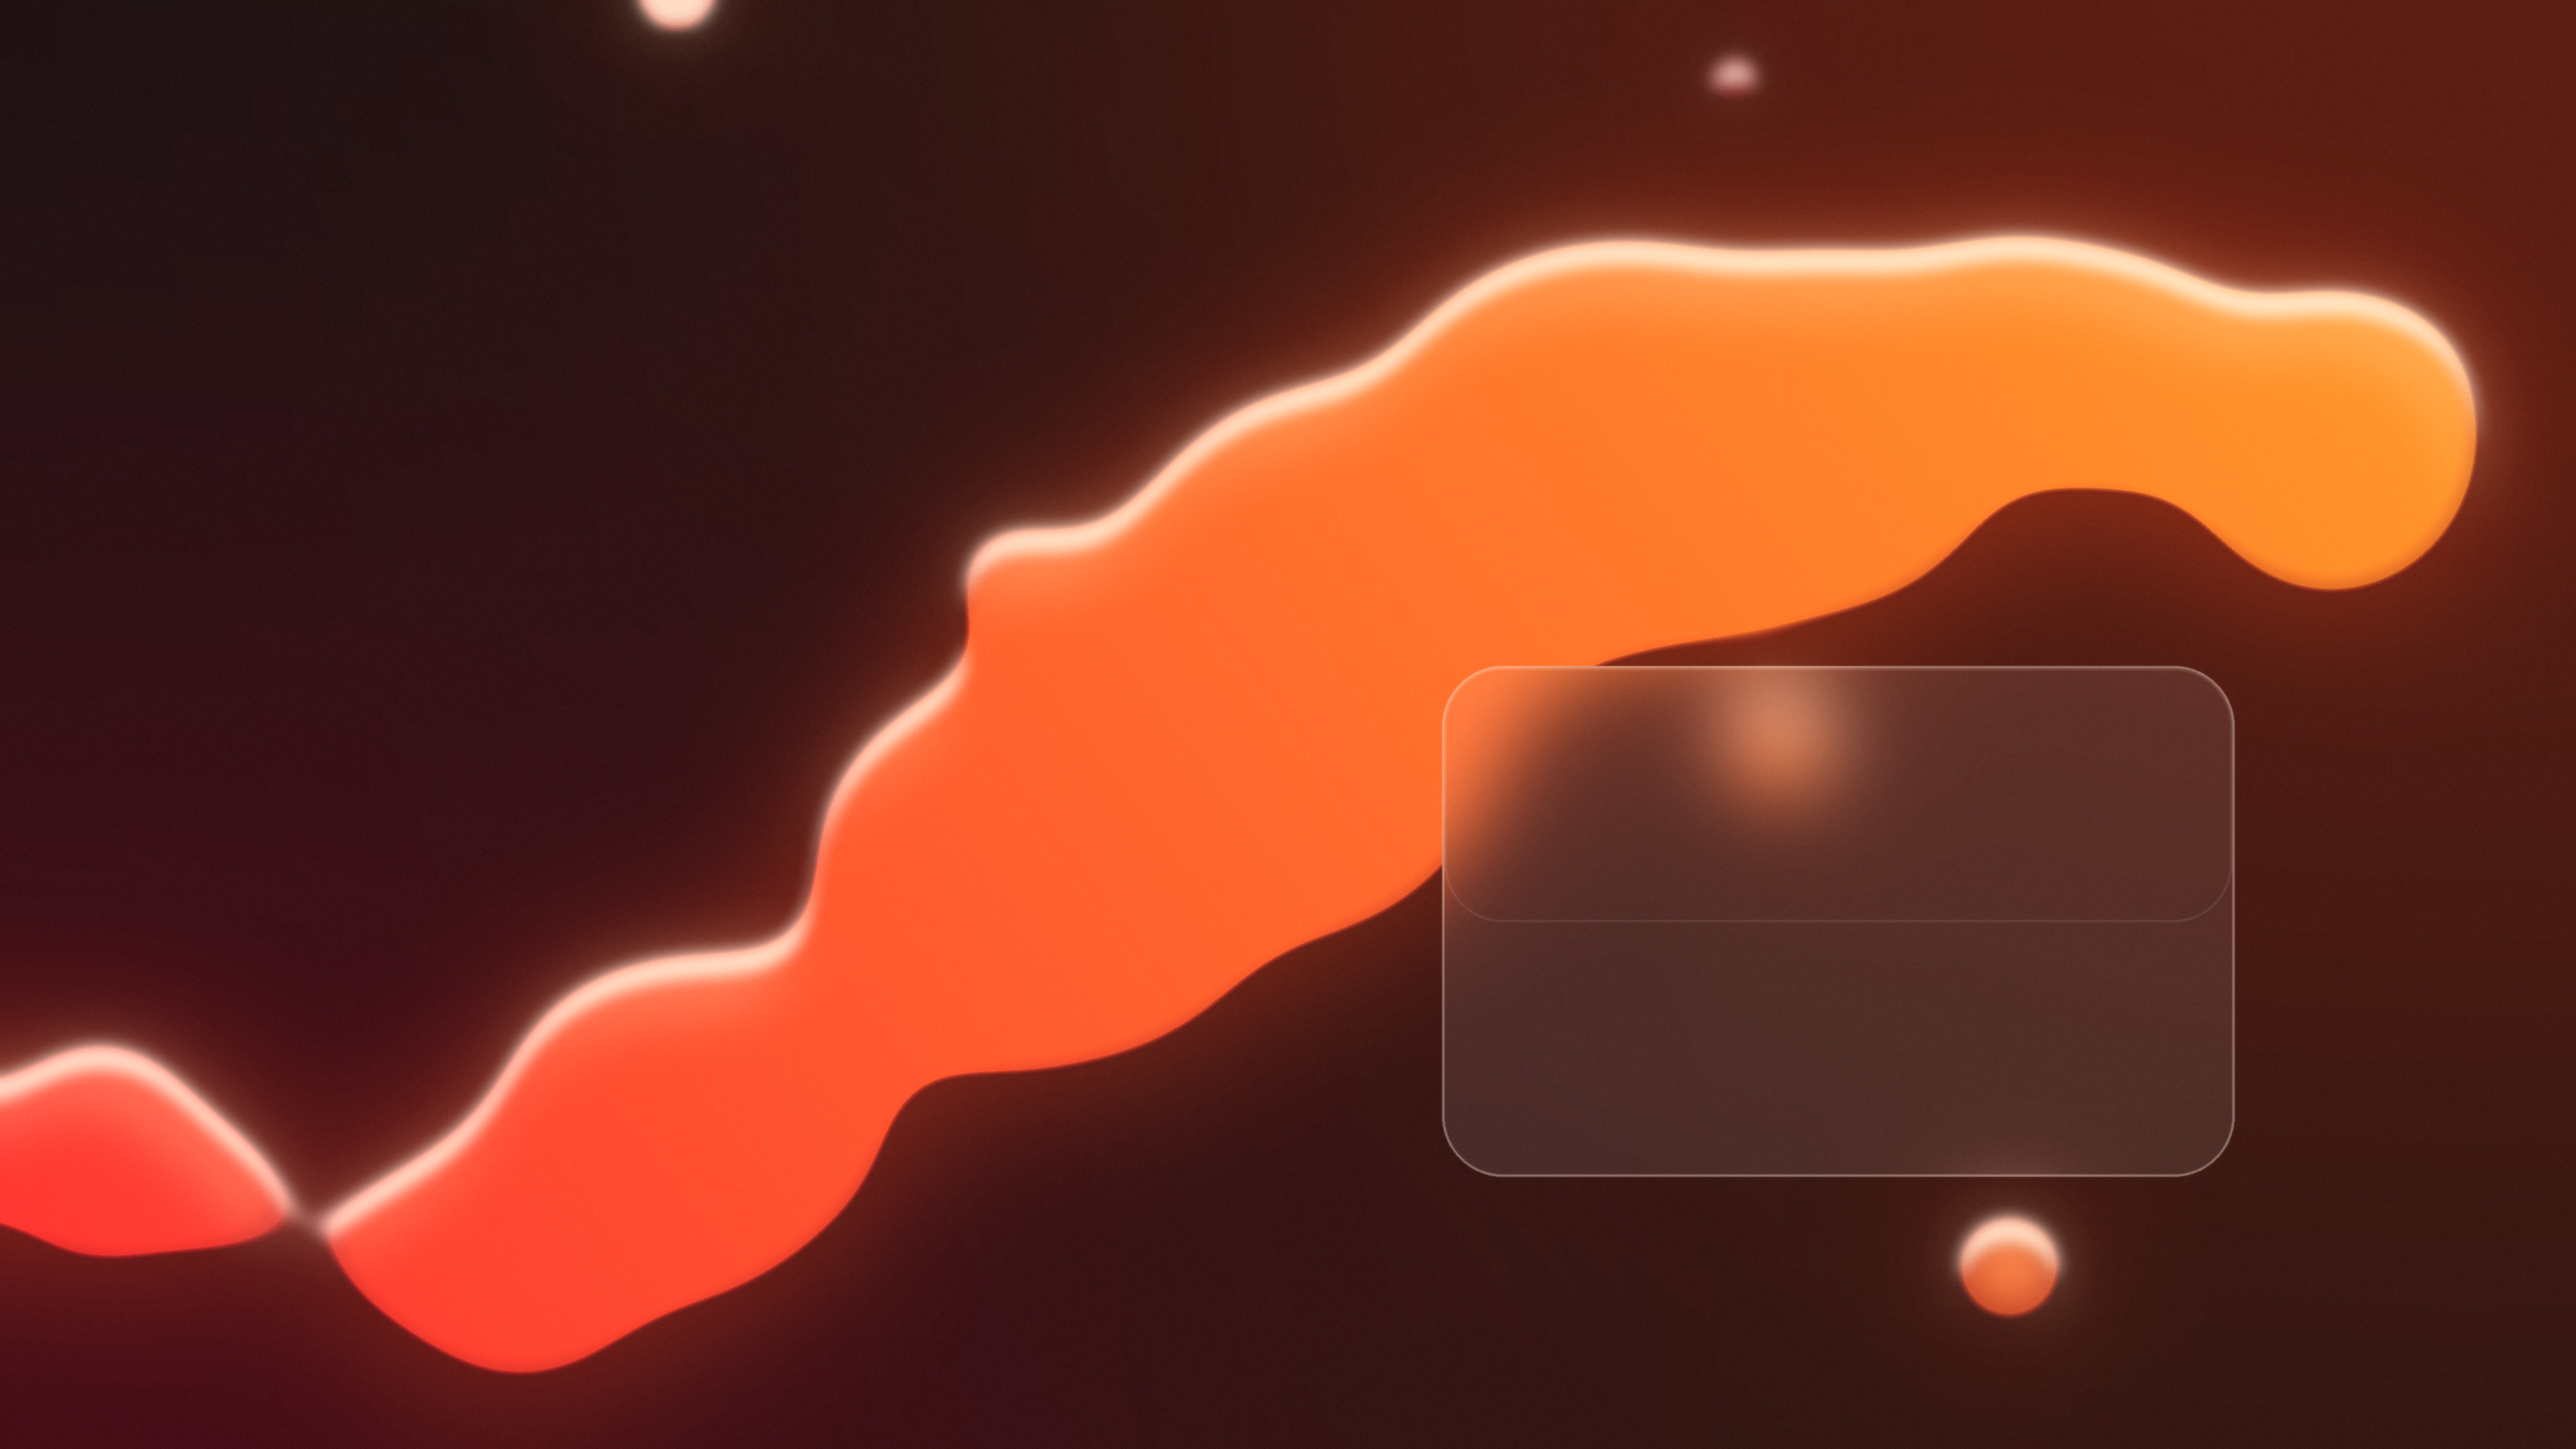
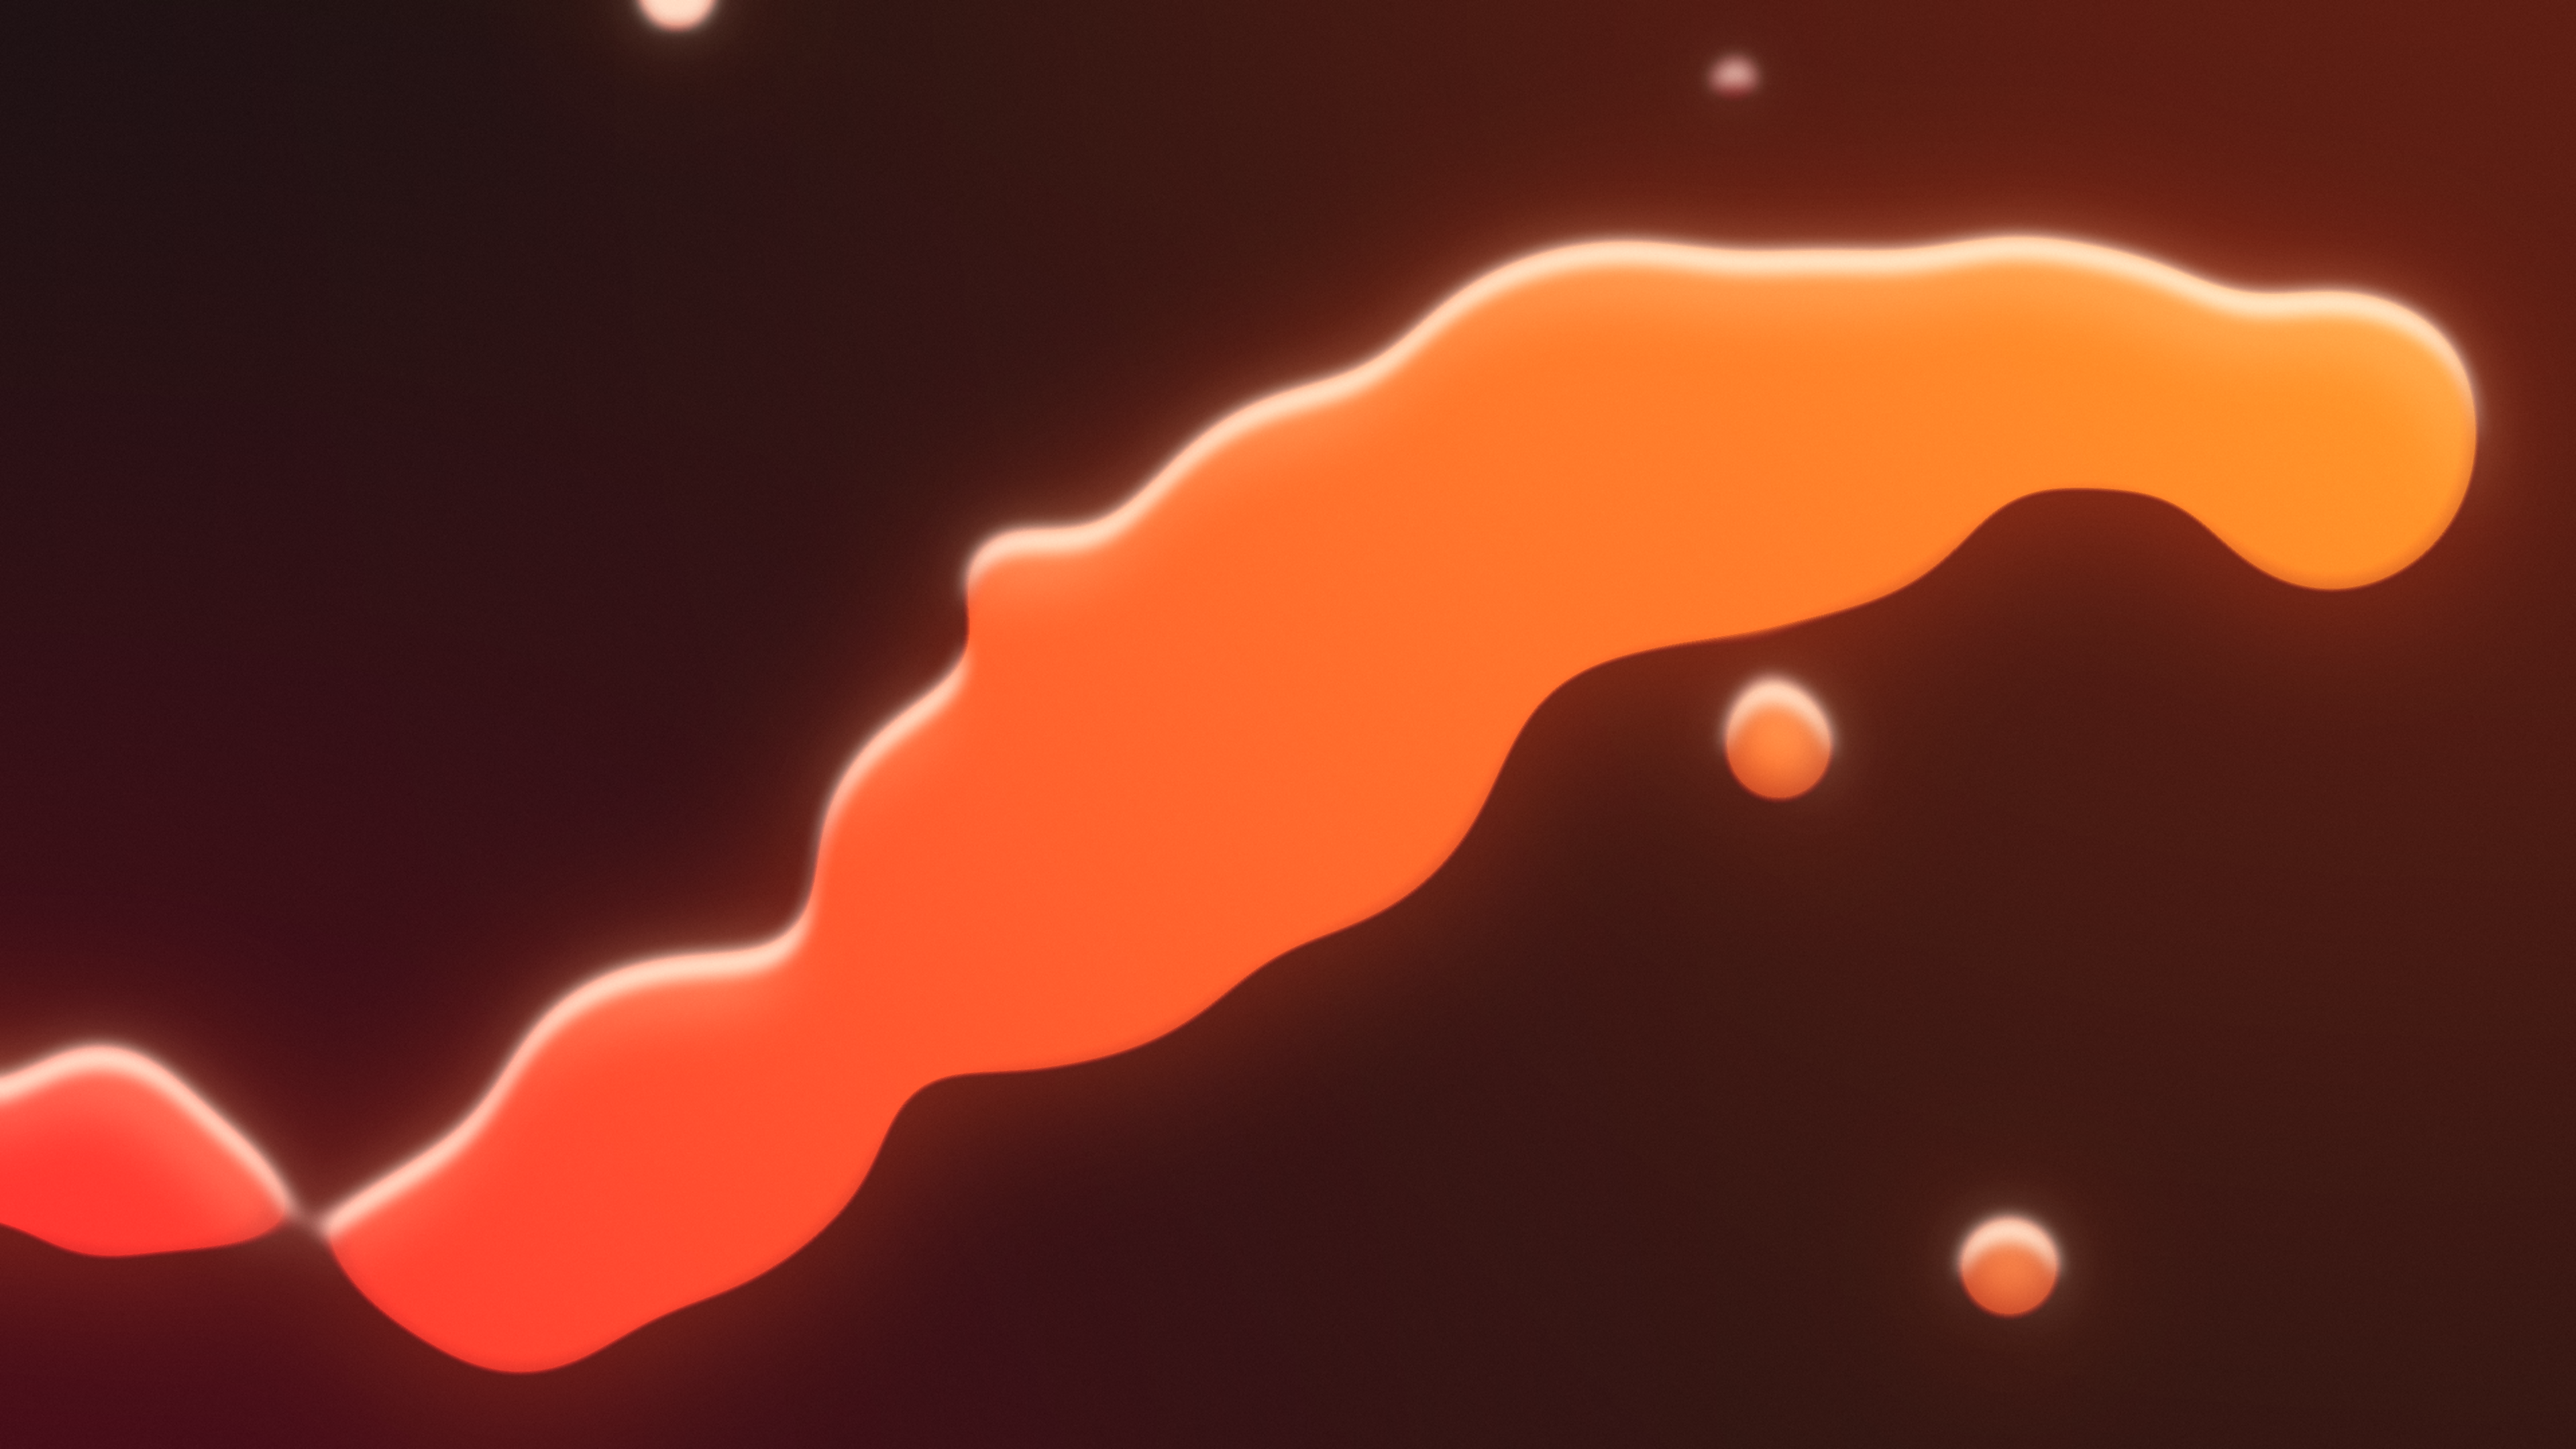
Drop the frosted glass panel from the LiquidIA background

Changed region(s): [[0.5625, 0.4343, 0.8438, 0.6514], [0.75, 0.7755, 0.8125, 0.8375]]

diff --git a/themes/liquidia/make-art.py b/themes/liquidia/make-art.py
@@ -2,8 +2,7 @@
 """Gera o fundo, o emblema da barra, a imagem de unlock e a prévia do tema LiquidIA.
 
 O fundo é "vidro líquido": gotas fundidas (metaballs: blur + limiar) num
-degradê vermelho -> laranja, com brilho especular na borda de cima e um
-painel de vidro fosco por cima. O ∞ é o infinito.png do DoxIA repintado no
+degradê vermelho -> laranja, com brilho especular na borda de cima. O ∞ é o infinito.png do DoxIA repintado no
 mesmo degradê.
 
 Rode de novo para regenerar: python3 make-art.py
@@ -111,22 +110,6 @@ def wallpaper():
     sh = Image.new("RGBA", size, (255, 210, 160, 0))
     sh.putalpha(sheen.point(lambda v: int(v * 0.35)))
     img.alpha_composite(sh)
-
-    # painel de vidro fosco por cima de parte do líquido
-    px, py, pw, ph, pr = int(W * 0.56), int(H * 0.46), 1180, 760, 90
-    panel_mask = Image.new("L", size, 0)
-    ImageDraw.Draw(panel_mask).rounded_rectangle([px, py, px + pw, py + ph], pr, fill=255)
-    frosted = img.filter(ImageFilter.GaussianBlur(55))
-    tint = Image.new("RGBA", size, (255, 255, 255, 22))
-    frosted.alpha_composite(tint)
-    img = Image.composite(frosted, img, panel_mask)
-    edge = Image.new("L", size, 0)
-    ed = ImageDraw.Draw(edge)
-    ed.rounded_rectangle([px, py, px + pw, py + ph], pr, outline=110, width=3)
-    ed.rounded_rectangle([px + 4, py + 4, px + pw - 4, py + ph // 2], pr - 4, outline=40, width=2)
-    stroke = Image.new("RGBA", size, (255, 235, 220, 0))
-    stroke.putalpha(edge.filter(ImageFilter.GaussianBlur(1.2)))
-    img.alpha_composite(stroke)
 
     # granulação leve para não dar banding
     noise = Image.effect_noise((W // 2, H // 2), 18).resize(size).point(lambda v: v // 14)
